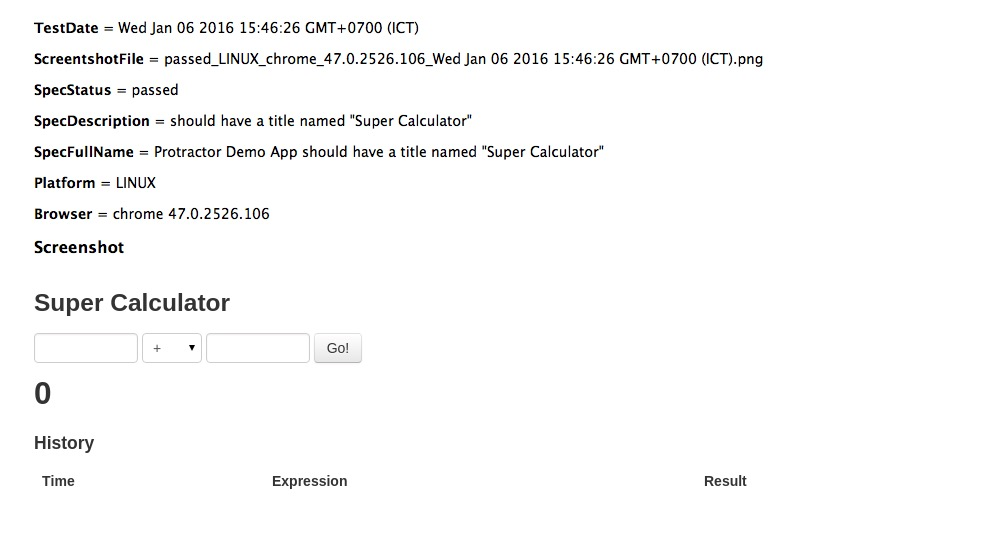
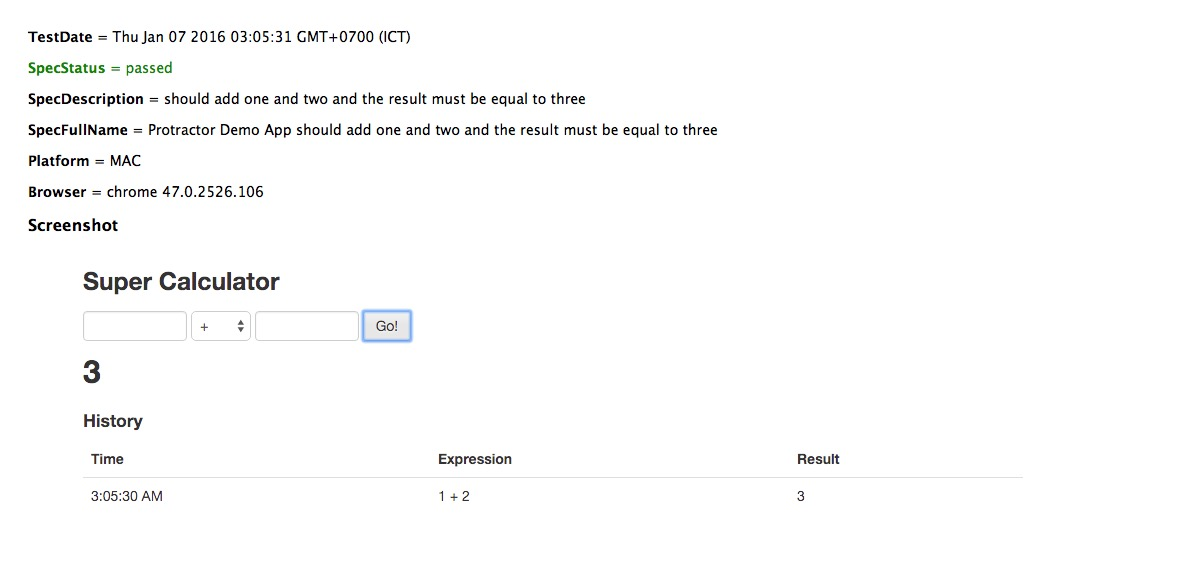
add color

diff --git a/index.js b/index.js
@@ -21,6 +21,7 @@ ProtractorBuildVerificationTestReport.prototype.onPrepare = function() {
                   version: s.caps_.version || 'undefined',
                 };
 
+                var color = testResultOnEachSpec.specStatus === 'passed' ? 'green' : 'red';
                 var testDate = new Date();
 
                 var imageFileName = testResultOnEachSpec.specStatus + '_' +
@@ -45,7 +46,8 @@ ProtractorBuildVerificationTestReport.prototype.onPrepare = function() {
                   '\t</head>\n' + 
                   '\t<body>\n' +
                   '\t\t<p><b>TestDate</b> = ' + testDate + '</p>\n' + 
-                  '\t\t<p><b>SpecStatus</b> = ' + testResultOnEachSpec.specStatus + '</p>\n' + 
+                  '\t\t<p style="color:' + color + '"><b>SpecStatus</b> = ' + 
+                      testResultOnEachSpec.specStatus + '</p>\n' + 
                   '\t\t<p><b>SpecDescription</b> = ' + testResultOnEachSpec.specDescription + '</p>\n' + 
                   '\t\t<p><b>SpecFullName</b> = ' +  testResultOnEachSpec.specFullName + '</p>\n' + 
                   '\t\t<p><b>Platform</b> = ' + testResultOnEachSpec.platform + '</p>\n' + 

diff --git a/README.md b/README.md
@@ -77,7 +77,7 @@ The screenshots folder consists of a collection of generated HTML files. The num
           /example/
              conf.js
              spec.js
-             /screenshot
+             /screenshots
                   failed_LINUX_chrome_47.0.2526.106_Wed Jan 01 2016 16:33:17 GMT+0700 (ICT).html
                   passed_LINUX_chrome_47.0.2526.106_Wed Jan 01 2016 16:33:11 GMT+0700 (ICT).html
                   passed_LINUX_chrome_47.0.2526.106_Wed Jan 01 2016 16:33:14 GMT+0700 (ICT).html
